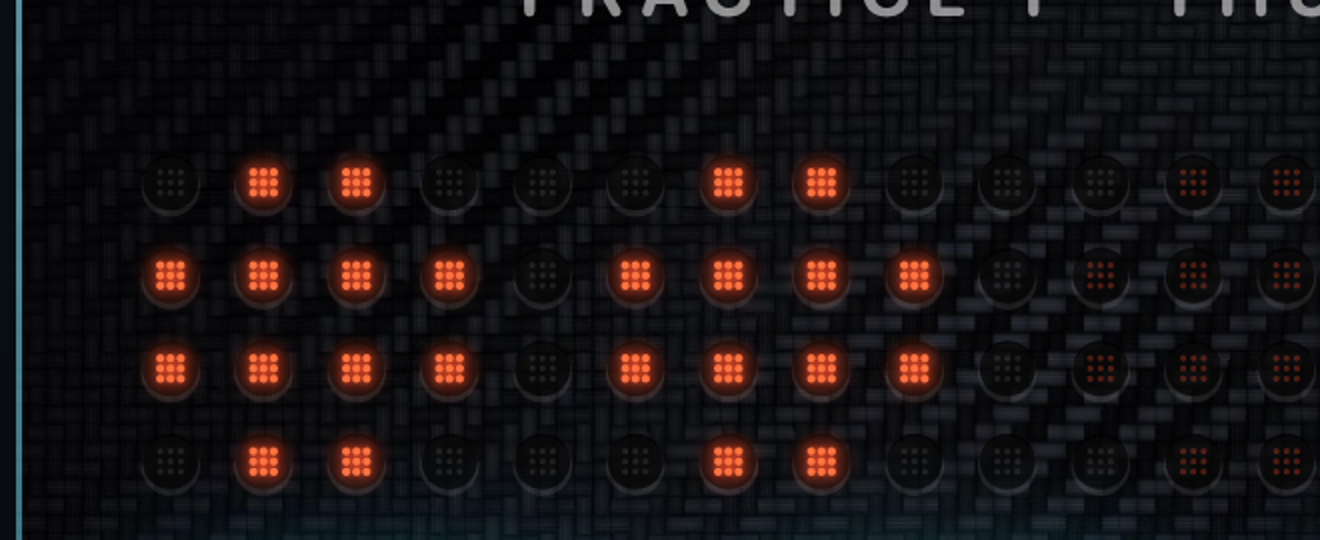
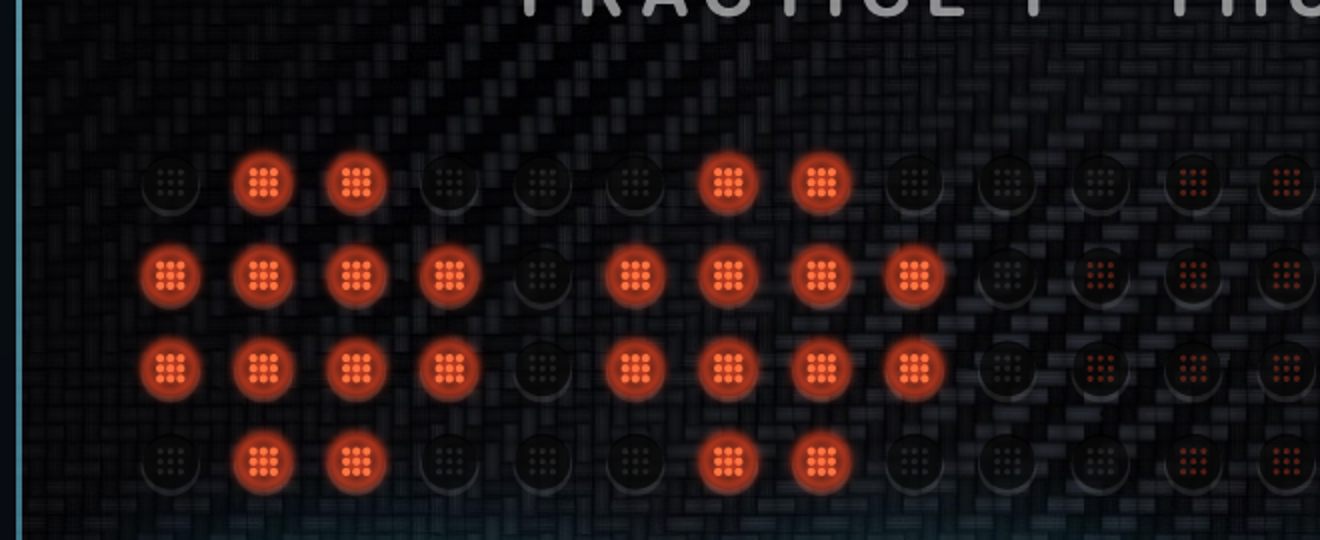
LED ring back: bright red, tight glow radius

diff --git a/TeamRadio/Views/CockpitKit.swift b/TeamRadio/Views/CockpitKit.swift
@@ -152,14 +152,14 @@ struct DotMatrixBoard: View {
             // lit LEDs: a soft additive halo, a coloured point, a bright core
             let glowing = lit.map { (center($0.key % 1000, $0.key / 1000), $0.value) }
             // each lit LED: a small halo, a thin bright ring at the lens edge, a hot core
-            // a faint ring at the lens edge
+            // the red glowing ring at the lens edge — bright, but with a tight blur
             ctx.drawLayer { layer in
                 layer.blendMode = .plusLighter
-                layer.addFilter(.blur(radius: 1.0))
+                layer.addFilter(.blur(radius: 0.8))
                 for (p, k) in glowing {
-                    let r = pitch * 0.25
+                    let r = pitch * 0.26
                     layer.stroke(Path(ellipseIn: CGRect(x: p.x - r, y: p.y - r, width: 2 * r, height: 2 * r)),
-                                 with: .color(lightColor.opacity(0.3 * k)), lineWidth: 1.2)
+                                 with: .color(lightColor.opacity(0.85 * k)), lineWidth: 1.6)
                 }
             }
             // the LED's nine cells light individually, each with its own small halo
